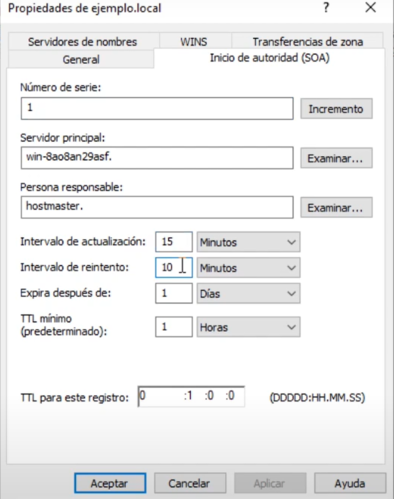
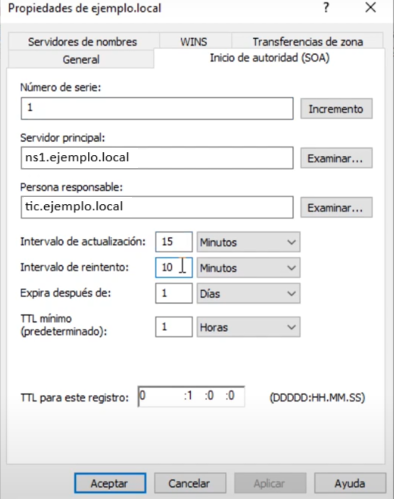
añado más imágenes

Changed region(s): [[0.0609, 0.3908, 0.335, 0.4208], [0.0609, 0.3006, 0.335, 0.3307]]

diff --git a/TAREAS/SR03TA04_dns_win_2.md b/TAREAS/SR03TA04_dns_win_2.md
@@ -2,7 +2,7 @@
 
 Para configurar los tres servidores DNS en Windows Server 2019, debes seguir una serie de pasos detallados para establecer la zona principal, configurar el servidor secundario y delegar la zona del subdominio. A continuación, se presenta un paso a paso claro para cada servidor.
 
-## Configuración del Servidor DNS Primario (Dominio: ejemplo.local)
+# `1` Configuración del Servidor DNS Primario (Dominio: ejemplo.local)
 
 ### 1. Deshabilitar la Recursión
 
@@ -33,7 +33,7 @@ Para configurar los tres servidores DNS en Windows Server 2019, debes seguir una
 
 - Crea una nueva zona de búsqueda inversa para la red `172.16.0.x`.
 - Introduce solo los dos primeros octetos, ya que se trata de una clase B.
-- Se podrán añadir automáticamente al darlos de alta en el siguiente paso.
+- Los registros inverdos PTR Se podrán añadir automáticamente al darlos de alta en el siguiente paso.
 
 ### 4. Configuración del Registro SOA
 
@@ -55,28 +55,46 @@ Para configurar los tres servidores DNS en Windows Server 2019, debes seguir una
 ![alt text](51.png) 
 
 - Añade los siguientes registros A según la configuración:
+  
+  **EN PRIMER LUGAR, LOS QUE CORRESONDEN A LOS SERVIDORES DNS**
+- 
   - `ns1.ejemplo.local` con IP `172.16.0.4` (servidor primario).
   - `ns2.ejemplo.local` con IP `172.16.0.5` (servidor secundario).
-  - Configura el registro `ns` creado en la zona con los datos de `ns1`.
+  
+**Configura el registro `ns` creado en la zona con los datos de `ns1`.**
   
 ![alt text](<52 configura ns1.png>)
 
-  - Otros registros como `mailserver1`, `mailserver2`, `www`, `ftp`, y `pc1` según la tabla proporcionada.
+  > **NO AÑADAS EL DELEGADO SUBDOMINIO TODAVÍA, A PESAR DE QUE LO HACE EN EL VÍDEO**
+
+  - Otros registros `A` como `mailserver1`, `mailserver2`, `www`, `ftp`, y `pc1` según la tabla proporcionada.
   
 ![alt text](<52 TODOS LOS REGISTROS.png>)
 
-  - Configura el registro nuevo -> registro de servicio -> \_telnet: puerto 23.
+> Después de dar de alta los registros tipo `A` de los servidores de correo, debes configurar su regitro **MX**.
+
+![alt text](image.png)
+
+* A continuación define el alias con CNAME:
+
+![alt text](image-1.png)
+
+  - Después configura el **Servicio de Telnet:** registro nuevo -> registro de servicio -> \_telnet: puerto 23.
+
+![alt text](image-2.png)
 
 ![alt text](<53 registro nuevo.png>) ![alt text](<53 telnet.png>)
 
-- Configura la transferencia de zona:
+### Configura la transferencia de zona:
   - Alta de `ns2`: clic derecho -> propiedades -> Servidores de nombres -> Agregar.
 
 ![alt text](54.png)
 
   - Propiedades -> Transferencia de zona -> Solo servidores de nombres.
 
-## Configuración del Servidor DNS Secundario (Dominio: ejemplo.local)
+> Antes de pasar a configurar el servidor secundario, asegúrate de que los registros `ns` apuntan a ns1 y ns2, tanto en la zona directa como en la inversa.
+
+# `2` Configuración del Servidor DNS Secundario (Dominio: ejemplo.local)
 
 ### 1. Creación de la Zona Secundaria
 
@@ -95,7 +113,7 @@ Para configurar los tres servidores DNS en Windows Server 2019, debes seguir una
 - Asegúrate de que la transferencia de zona esté habilitada en el servidor primario.
 - En el servidor primario, abre la configuración de la zona `ejemplo.local`, ve a la pestaña "Transferencias de zona" y selecciona "Permitir transferencias de zona" solo a los servidores que especifiques, agregando la IP `172.16.0.5`.
 
-## Configuración del Servidor Delegado para el Subdominio (Dominio: subdominio.ejemplo.local)
+# `3` Configuración del Servidor Delegado para el Subdominio (Dominio: subdominio.ejemplo.local)
 
 ### 1. Creación de la Zona Principal del Subdominio
 
@@ -125,34 +143,39 @@ Para configurar los tres servidores DNS en Windows Server 2019, debes seguir una
 
 ## Configuración de Reenviadores
 
-### 1. Configuración de Reenviadores
+### 1. Configuración de Reenviadores (en el servidor delegado)
 
 ![alt text](58.png) 
 
 - Los reenviadores permiten que un servidor DNS envíe consultas a otros servidores DNS específicos cuando no puede resolver un nombre por sí mismo. Esto es útil para mejorar la eficiencia de la resolución y controlar el flujo de consultas DNS.
 - Abre la consola de Administración de DNS.
-- Haz clic derecho sobre el servidor DNS y selecciona "Propiedades".
-- Ve a la pestaña "Reenviadores".
+- Haz clic derecho sobre el servidor DNS y selecciona "**Propiedades**".
+- Ve a la pestaña "**Reenviadores**".
 - Añade los reenviadores `ns1` y `ns2` con sus respectivas direcciones IP (`172.16.0.4` y `172.16.0.5`).
 - Asegúrate de que los reenviadores estén configurados correctamente para garantizar una resolución rápida y eficiente de nombres que el servidor no pueda responder directamente.
 
-### 2. Configuración de Reenviador Condicional
+### 2. Configuración de Reenviador Condicional (en los 3 servidores)
+
+![alt text](image-3.png)
+
+- Un reenviador condicional permite que el servidor DNS envíe consultas específicas a un servidor determinado según el dominio que se está resolviendo.
+- En el explorador del DNS, en la carpeta Reenviadores condicionales, **Nuevo reenviador condicional**.
 
 ![alt text](59.png) 
 
-- Un reenviador condicional permite que el servidor DNS envíe consultas específicas a un servidor determinado según el dominio que se está resolviendo.
-- Abre la consola de Administración de DNS.
-- Haz clic derecho sobre el servidor DNS y selecciona "Propiedades".
-- Ve a la pestaña "Reenviadores" y selecciona "Nuevo..." para crear un reenviador condicional.
 - Introduce el dominio `externo.com` y la dirección IP del reenviador condicional (`83.44.227.152`).
 - De esta manera, cualquier consulta para `externo.com` se enviará al servidor especificado para resolver el nombre.
 
 ### 3. Delegación desde el Servidor Primario
 
+- Crea un registro A para `delegadosubdominio` con la IP `172.16.0.50`.
+
+![alt text](image-4.png)
+
+- En el servidor primario (`ejemplo.local`), abre la configuración de la zona y crea una nueva delegación.
+
 ![alt text](60.png) 
 
-- Crea un registro A para `delegadosubdominio` con la IP `172.16.0.50`.
-- En el servidor primario (`ejemplo.local`), abre la configuración de la zona y crea una nueva delegación.
 - Introduce el nombre del subdominio: `subdominio.ejemplo.local` y especifica la IP del servidor delegado (`172.16.0.50`).
 
 ## Configuración de Reenviador a Google y Reenviador Condicional para el Servidor Primario
